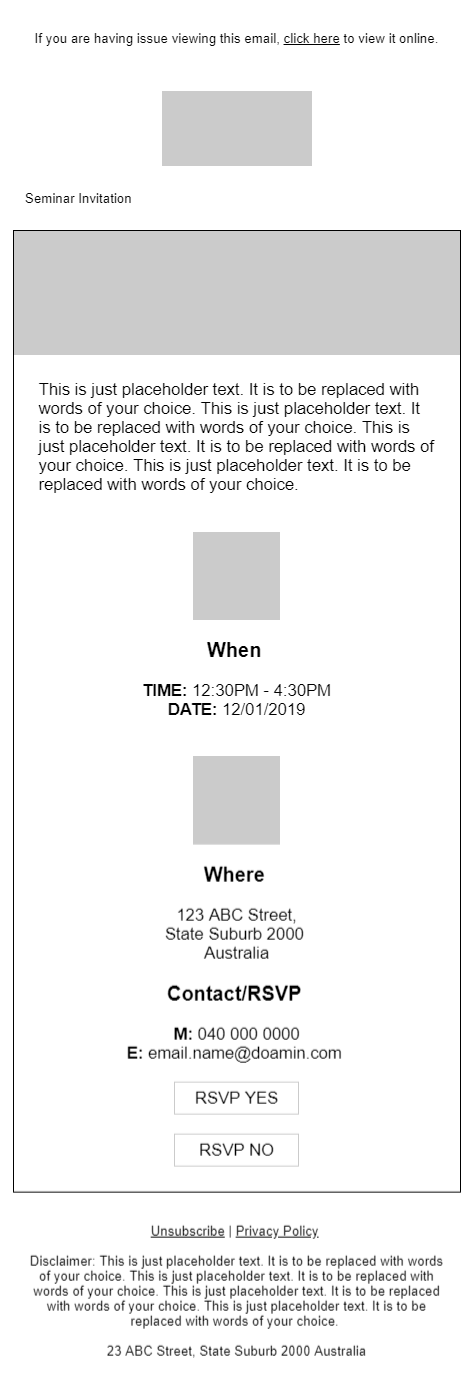
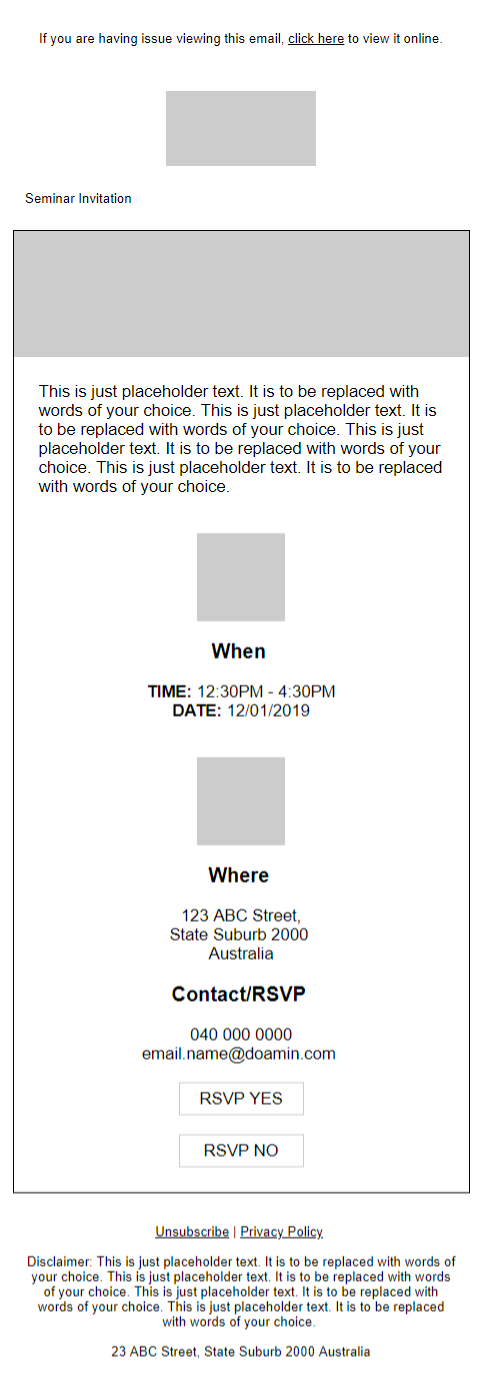
Minor adjustments and new screenshots

diff --git a/Invitation_Template_01/index.html b/Invitation_Template_01/index.html
@@ -243,8 +243,8 @@
 											<td align="center">
 												<span style="font-size:12pt; color:#000000; font-family: arial;"><b>Contact/RSVP</b></span>
 												<br/><br/>
-												<b>M:</b> 040 000 0000<br/>
-												<b>E:</b> email.name@doamin.com
+												040 000 0000<br/>
+												email.name@doamin.com
 												<br/><br/>
 												<table class="button" style="width:100px; font-size:10pt; color:#000000; font-family:arial;"cellpadding="0" cellspacing="0" border="0">
 												<tr>
